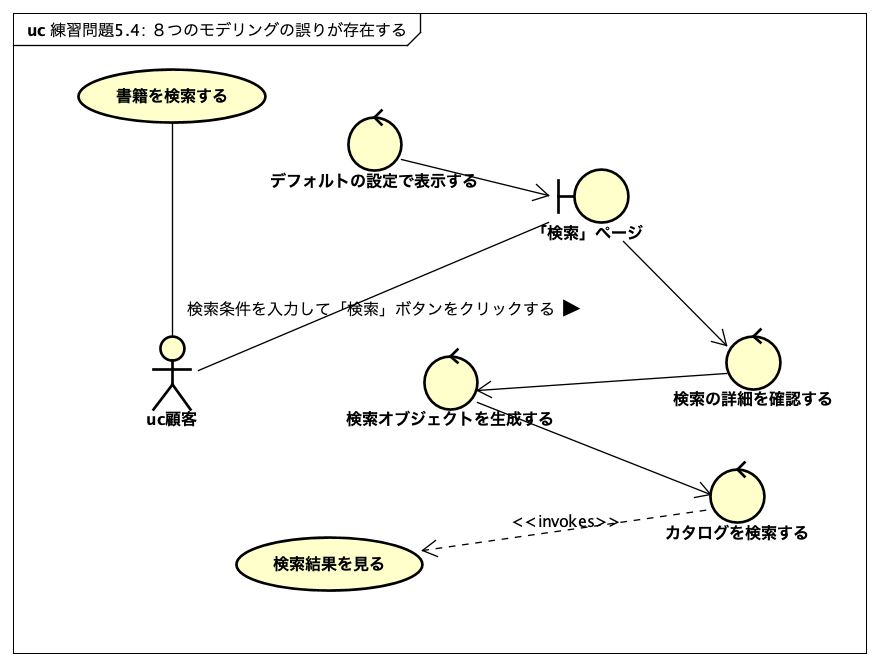
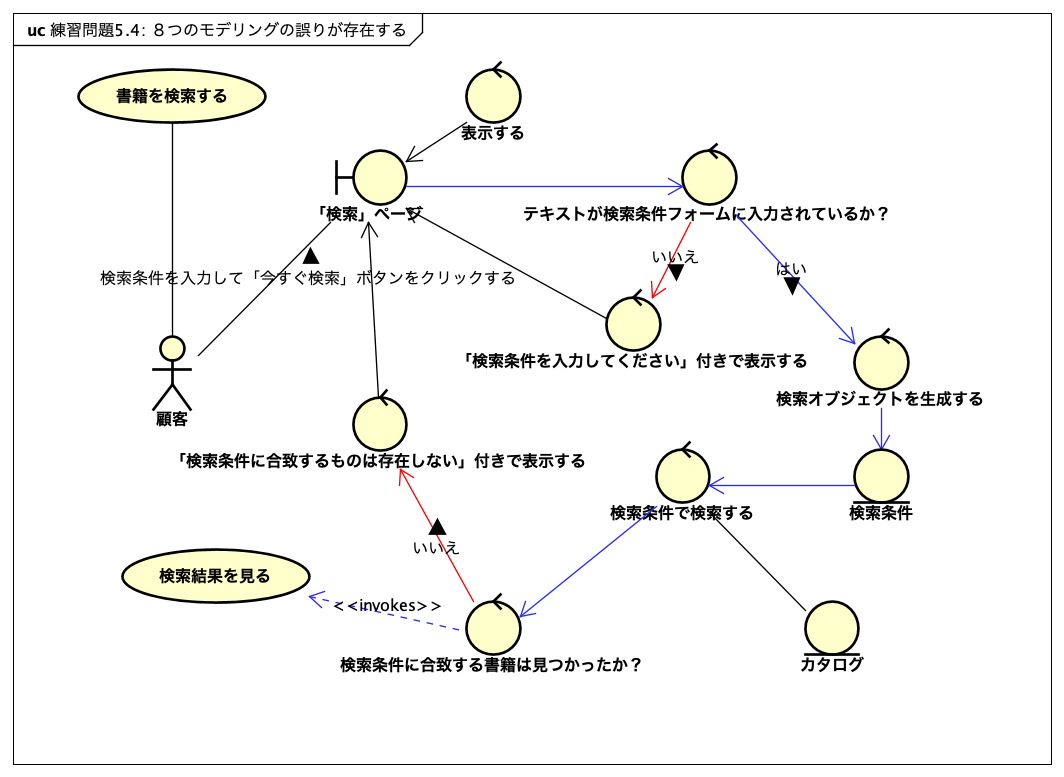
「5.3 ロバストネス分析の実践: 練習問題」に関係する各資料へ、回答内容による修正を行った状態をコミットしておく。

diff --git a/docs/BookShop/SystemManagement/外部の書籍をカタログに追加する.md b/docs/BookShop/SystemManagement/外部の書籍をカタログに追加する.md
@@ -6,8 +6,9 @@
 2. 販売者は、外部の書籍の詳細（タイトル、ISBN、価格など）を入力して、「追加」ボタンをクリックする。
 3. システムは、個々の入力フィールドに値が入力されていることをチェックする。
 4. システムは、価格が正の整数で1,000ドル以下であることをチェックする。
-5. 以上のチェックを満たしている場合、システムは、データベースに外部の書籍を追加する。
-6. システムは外部の書籍が正常に追加されたことを示すメッセージとともに、（ユーザが別の外部の書籍を追加できるように）再度「外部の書籍の追加」ページを表示する。
+5. システムはまた、該当するISBNが書店のデータベース中に存在することを確認する。
+6. 以上のチェックを満たしている場合、システムは、データベースに外部の書籍を追加する。
+7. システムは外部の書籍が正常に追加されたことを示すメッセージとともに、（ユーザが別の外部の書籍を追加できるように）再度「外部の書籍の追加」ページを表示する。
 
 
 ## 代替コース

diff --git a/docs/BookShop/Search/書籍を検索する.md b/docs/BookShop/Search/書籍を検索する.md
@@ -2,10 +2,10 @@
 
 ## 基本コース
 
-1. システムはユーザーが検索条件を入力可能なページを表示する。
+1. システムは「検索」ページを表示する。
 2. ユーザーは検索条件を入力し、「今すぐ検索」ボタンをクリックする。
-3. システムは検索条件を確認し、検索条件オブジェクトを生成する。
-4. システムは検索条件によってカタログを検索し、一致したエントリーを検索結果に追加する。
+3. システムは検索条件として何らかのテキストが入力されていることを確認し、検索条件を生成する。
+4. システムは検索条件によってカタログを検索し、一致した書籍を検索結果に追加する。
 5. そして、システムはユースケース「検索結果を見る」ユースケース経由で検索結果を表示する。
 
 

diff --git a/docs/BookShop/Shopping/精算する.md b/docs/BookShop/Shopping/精算する.md
@@ -4,8 +4,8 @@
 
 1. システムは、「ショッピングカートの編集ページ」を表示する。
 2. ユーザは、「精算」ボタンをクリックする。
-3. システムは、ユーザーアカウントに登録済みのすべての住所とともに「配送先住所」ページを表示する。
-4. ユーザは、住所を選択する。
+3. システムは、このユーザーに対して登録された「配送先住所」を取得し、「配送先住所」ページを表示する。
+4. ユーザは、「顧客住所」リストから住所を選択し、「選択」ボタンをクリックする。
 5. システムは、注文に配送先住所を設定する。
 
 
